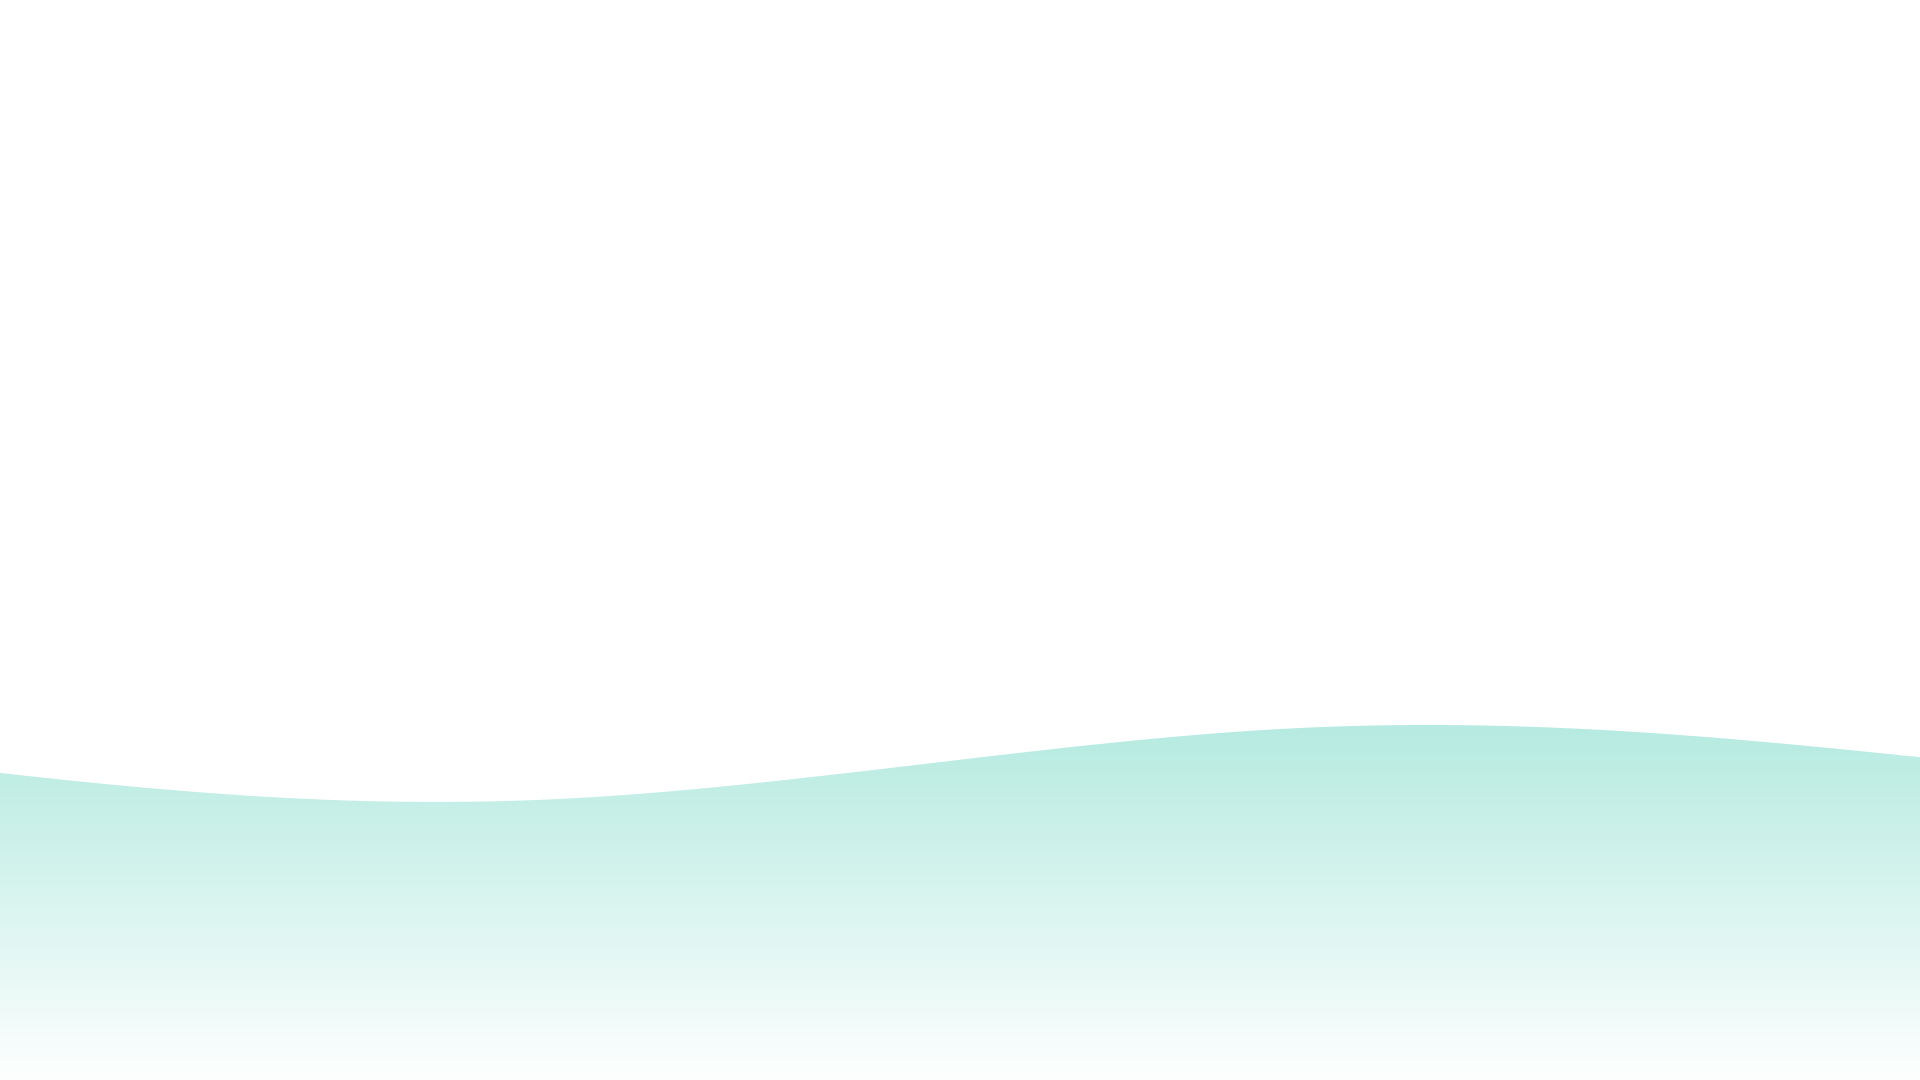
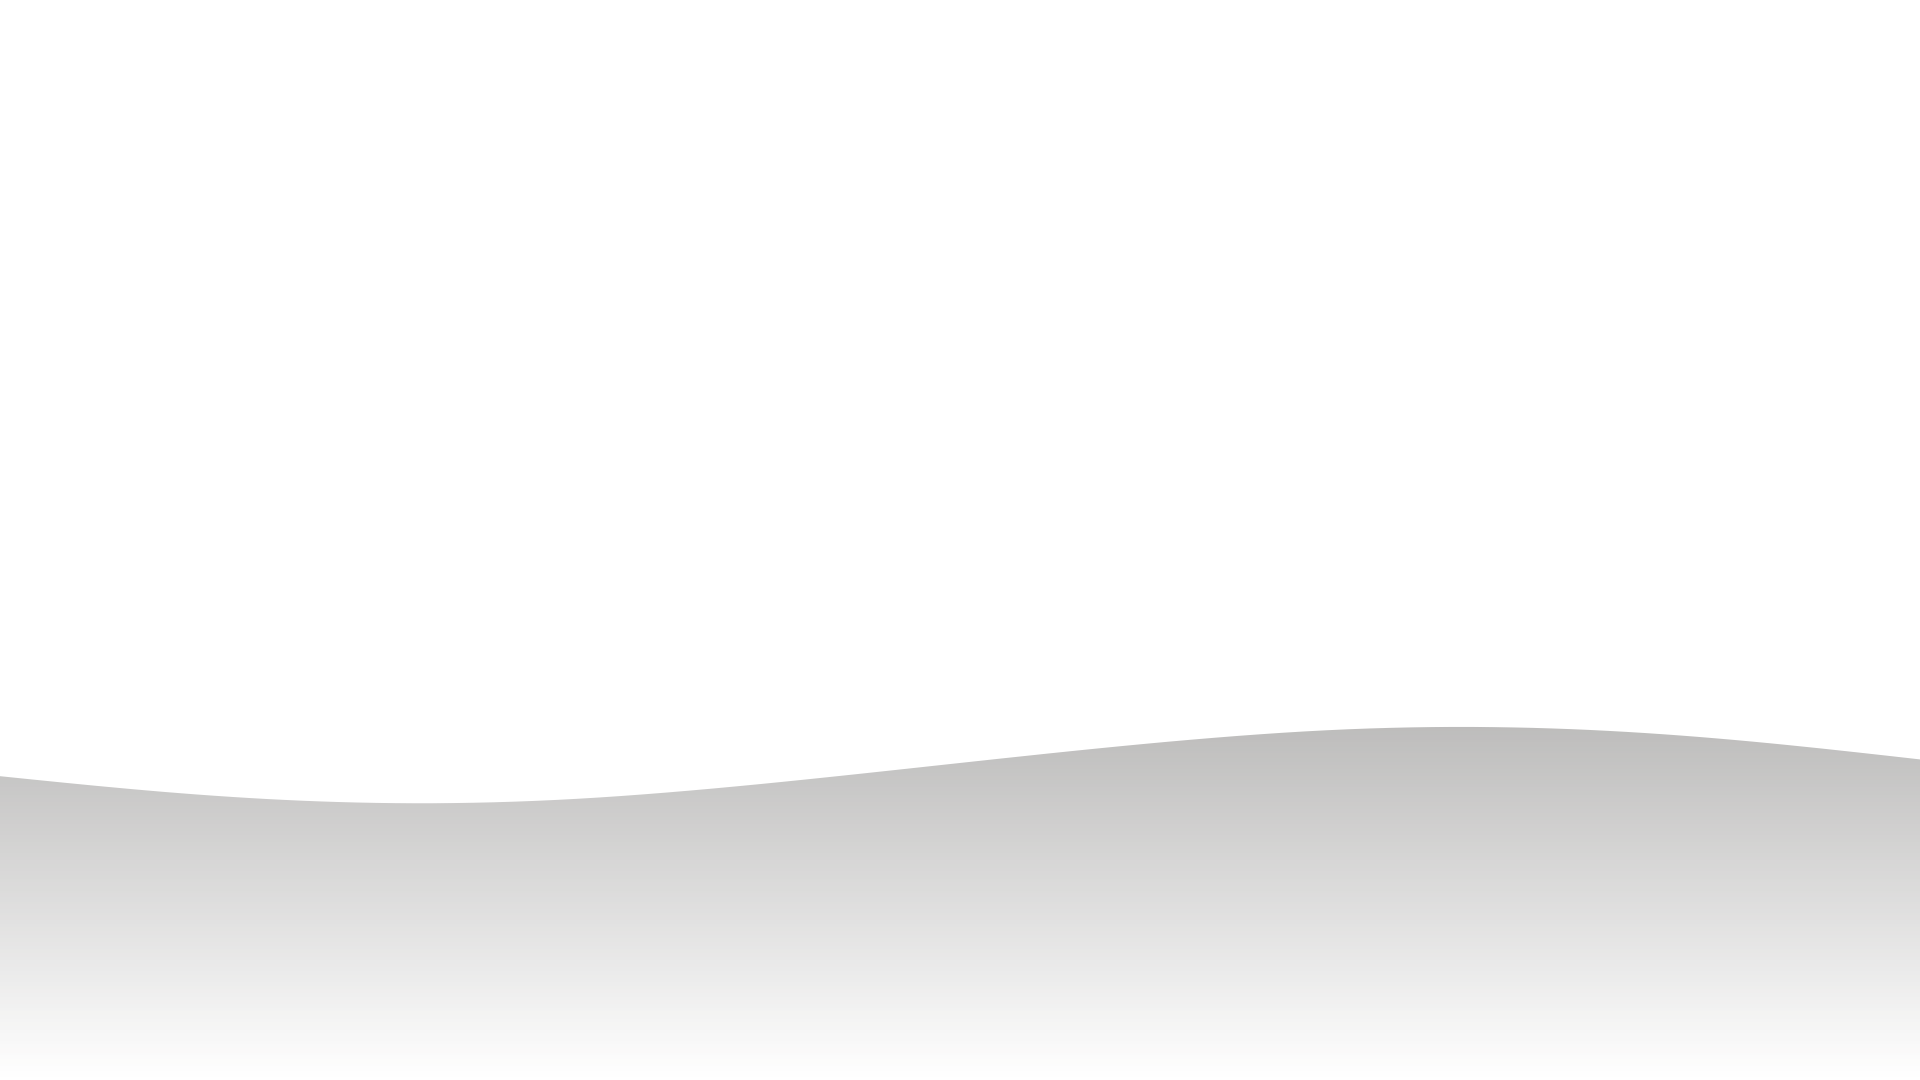
commit

Changed region(s): [[0.0, 0.6722, 1.0, 0.825]]

diff --git a/index.html b/index.html
@@ -63,7 +63,7 @@
 				<img class="icon" src="https://media.forgecdn.net/avatars/thumbnails/1150/378/256/256/638717862400643307.png" alt="icon">
 				<div class="texts">
 					<div class="title"> Legionary </div>
-					<div class="decs"> Legionary is a piglin-oriented mod adding some features from Minecraft legends and coming up with it's own stuff. </div>
+					<div class="desc"> Legionary is a piglin-oriented mod adding some features from Minecraft legends and coming up with it's own stuff. </div>
 					<div class="links">
 						<a class="link cf" href="https://www.curseforge.com/minecraft/mc-mods/legionary">
 							<img class="icon" src="img/cf.svg" alt="icon">
@@ -81,7 +81,7 @@
 				<img class="icon" src="https://media.forgecdn.net/avatars/thumbnails/1922/834/256/256/639197763353109695.png" alt="icon">
 				<div class="texts">
 					<div class="title"> Overpacked </div>
-					<div class="decs"> Overpacked adds huge backpacks with a capacity roughly equal to four chests, allowing you to carry many more items on your adventures. The backpack helps you store loot and organize it into different sections, making inventory management more convenient and well-structured. </div>
+					<div class="desc"> Overpacked adds huge backpacks with a capacity roughly equal to four chests, allowing you to carry many more items on your adventures. The backpack helps you store loot and organize it into different sections, making inventory management more convenient and well-structured. </div>
 					<div class="links">
 						<a class="link cf" href="https://www.curseforge.com/minecraft/mc-mods/overpacked">
 							<img class="icon" src="img/cf.svg" alt="icon">
@@ -99,7 +99,7 @@
 				<img class="icon" src="https://media.forgecdn.net/avatars/thumbnails/1441/252/256/256/638934448135001820.png" alt="icon">
 				<div class="texts">
 					<div class="title"> BlockDonald's </div>
-					<div class="decs"> BlockDonald’s is an add-on for Farmer’s Delight that brings iconic fast food into Minecraft. With this expansion, players can cook and enjoy classic burgers, crispy fries in several variations, chicken nuggets, refreshing drinks, and even experiment with new ingredients like cheese, and mustard. A brand new deep fryer block makes it possible to prepare these meals just like in a real fast food kitchen, adding more fun and variety to your cooking adventures </div>
+					<div class="desc"> BlockDonald’s is an add-on for Farmer’s Delight that brings iconic fast food into Minecraft. With this expansion, players can cook and enjoy classic burgers, crispy fries in several variations, chicken nuggets, refreshing drinks, and even experiment with new ingredients like cheese, and mustard. A brand new deep fryer block makes it possible to prepare these meals just like in a real fast food kitchen, adding more fun and variety to your cooking adventures </div>
 					<div class="links">
 						<a class="link cf" href="https://www.curseforge.com/minecraft/mc-mods/blockdonalds">
 							<img class="icon" src="img/cf.svg" alt="icon">
@@ -117,7 +117,7 @@
 				<img class="icon" src="https://media.forgecdn.net/avatars/thumbnails/1658/262/256/256/639056569333555437.png" alt="icon">
 				<div class="texts">
 					<div class="title"> Falling Blocks Anim </div>
-					<div class="decs"> This mod adds animation for falling blocks </div>
+					<div class="desc"> This mod adds animation for falling blocks </div>
 					<div class="links">
 						<a class="link cf" href="https://www.curseforge.com/minecraft/mc-mods/falling-blocks-anim">
 							<img class="icon" src="img/cf.svg" alt="icon">
@@ -135,7 +135,7 @@
 				<img class="icon" src="https://media.forgecdn.net/avatars/thumbnails/1758/545/256/256/639118714023022984.png" alt="icon">
 				<div class="texts">
 					<div class="title"> Bobo Lib </div>
-					<div class="decs"> A library mod for Bobophones mods </div>
+					<div class="desc"> A library mod for Bobophones mods </div>
 					<div class="links">
 						<a class="link cf" href="https://www.curseforge.com/minecraft/mc-mods/bobo-lib">
 							<img class="icon" src="img/cf.svg" alt="icon">
@@ -153,7 +153,7 @@
 				<img class="icon" src="https://media.forgecdn.net/avatars/thumbnails/1675/243/256/256/639065220173999099.png" alt="icon">
 				<div class="texts">
 					<div class="title"> Backpets </div>
-					<div class="decs"> Bring companionship and utility to your adventures in Backpets! </div>
+					<div class="desc"> Bring companionship and utility to your adventures in Backpets! </div>
 					<div class="links">
 						<a class="link cf" href="https://www.curseforge.com/minecraft/mc-mods/backpets">
 							<img class="icon" src="img/cf.svg" alt="icon">
@@ -171,7 +171,7 @@
 				<img class="icon" src="https://media.forgecdn.net/avatars/thumbnails/1659/152/256/256/639057026516370318.png" alt="icon">
 				<div class="texts">
 					<div class="title"> Shershavy </div>
-					<div class="decs"> This mod adds a lot of different content. A variety of mobs, small and large structures, various mechanics such as magic and an anti-air system, many new decorative and functional blocks, and more </div>
+					<div class="desc"> This mod adds a lot of different content. A variety of mobs, small and large structures, various mechanics such as magic and an anti-air system, many new decorative and functional blocks, and more </div>
 					<div class="links">
 						<a class="link cf" href="https://www.curseforge.com/minecraft/mc-mods/shershavy">
 							<img class="icon" src="img/cf.svg" alt="icon">
@@ -189,7 +189,7 @@
 				<img class="icon" src="https://media.forgecdn.net/avatars/thumbnails/1658/170/256/256/639056535067767973.png" alt="icon">
 				<div class="texts">
 					<div class="title"> Crispy Fish </div>
-					<div class="decs"> This mod adds deep-fried crispy fish </div>
+					<div class="desc"> This mod adds deep-fried crispy fish </div>
 					<div class="links">
 						<a class="link cf" href="https://www.curseforge.com/minecraft/mc-mods/crispy-fish">
 							<img class="icon" src="img/cf.svg" alt="icon">
@@ -207,7 +207,7 @@
 				<img class="icon" src="https://media.forgecdn.net/avatars/thumbnails/2033/73/256/256/639243917509066254.png" alt="icon">
 				<div class="texts">
 					<div class="title"> The Stalwart </div>
-					<div class="decs"> A mod featuring your toughest enemy yet </div>
+					<div class="desc"> A mod featuring your toughest enemy yet </div>
 					<div class="links">
 						<a class="link cf" href="https://www.curseforge.com/minecraft/mc-mods/the-stalwart">
 							<img class="icon" src="img/cf.svg" alt="icon">

diff --git a/style.css b/style.css
@@ -1,8 +1,7 @@
 :root {
-	--main_c: #004D3E;
-	--main_hc: #00B693;
-	--link_c: #1C1E21;
-	--link_hc: #141619;
+	--main_c: #302928;
+	--main_hc: #8C8B83;
+	--bg_c: #141111;
 	--header_h: 50px;
 }
 
@@ -32,7 +31,7 @@ img {
 }
 
 .body {
-	background: black;
+	background: var(--bg_c);
 }
 
 .page {
@@ -132,7 +131,7 @@ img {
 		font-size: 25px;
 	}
 	.project .desc {
-		font-size: 15px;
+		font-size: 16px;
 	}
 	.project .links {
 		display: flex;
@@ -145,7 +144,7 @@ img {
 .link {
 	padding: 10px 15px;
 	border-radius: 15px;
-	background-color: var(--link_c);
+	background-color: var(--main_c);
 	display: flex;
 	align-items: center;
 	gap: 5px;
@@ -155,7 +154,7 @@ img {
 		height: 18px;
 	}
 	.link:hover {
-		background-color: var(--link_hc);
+		background-color: var(--bg_c);
 	}
 .link.cf {
 	background-color: #eb622b;
